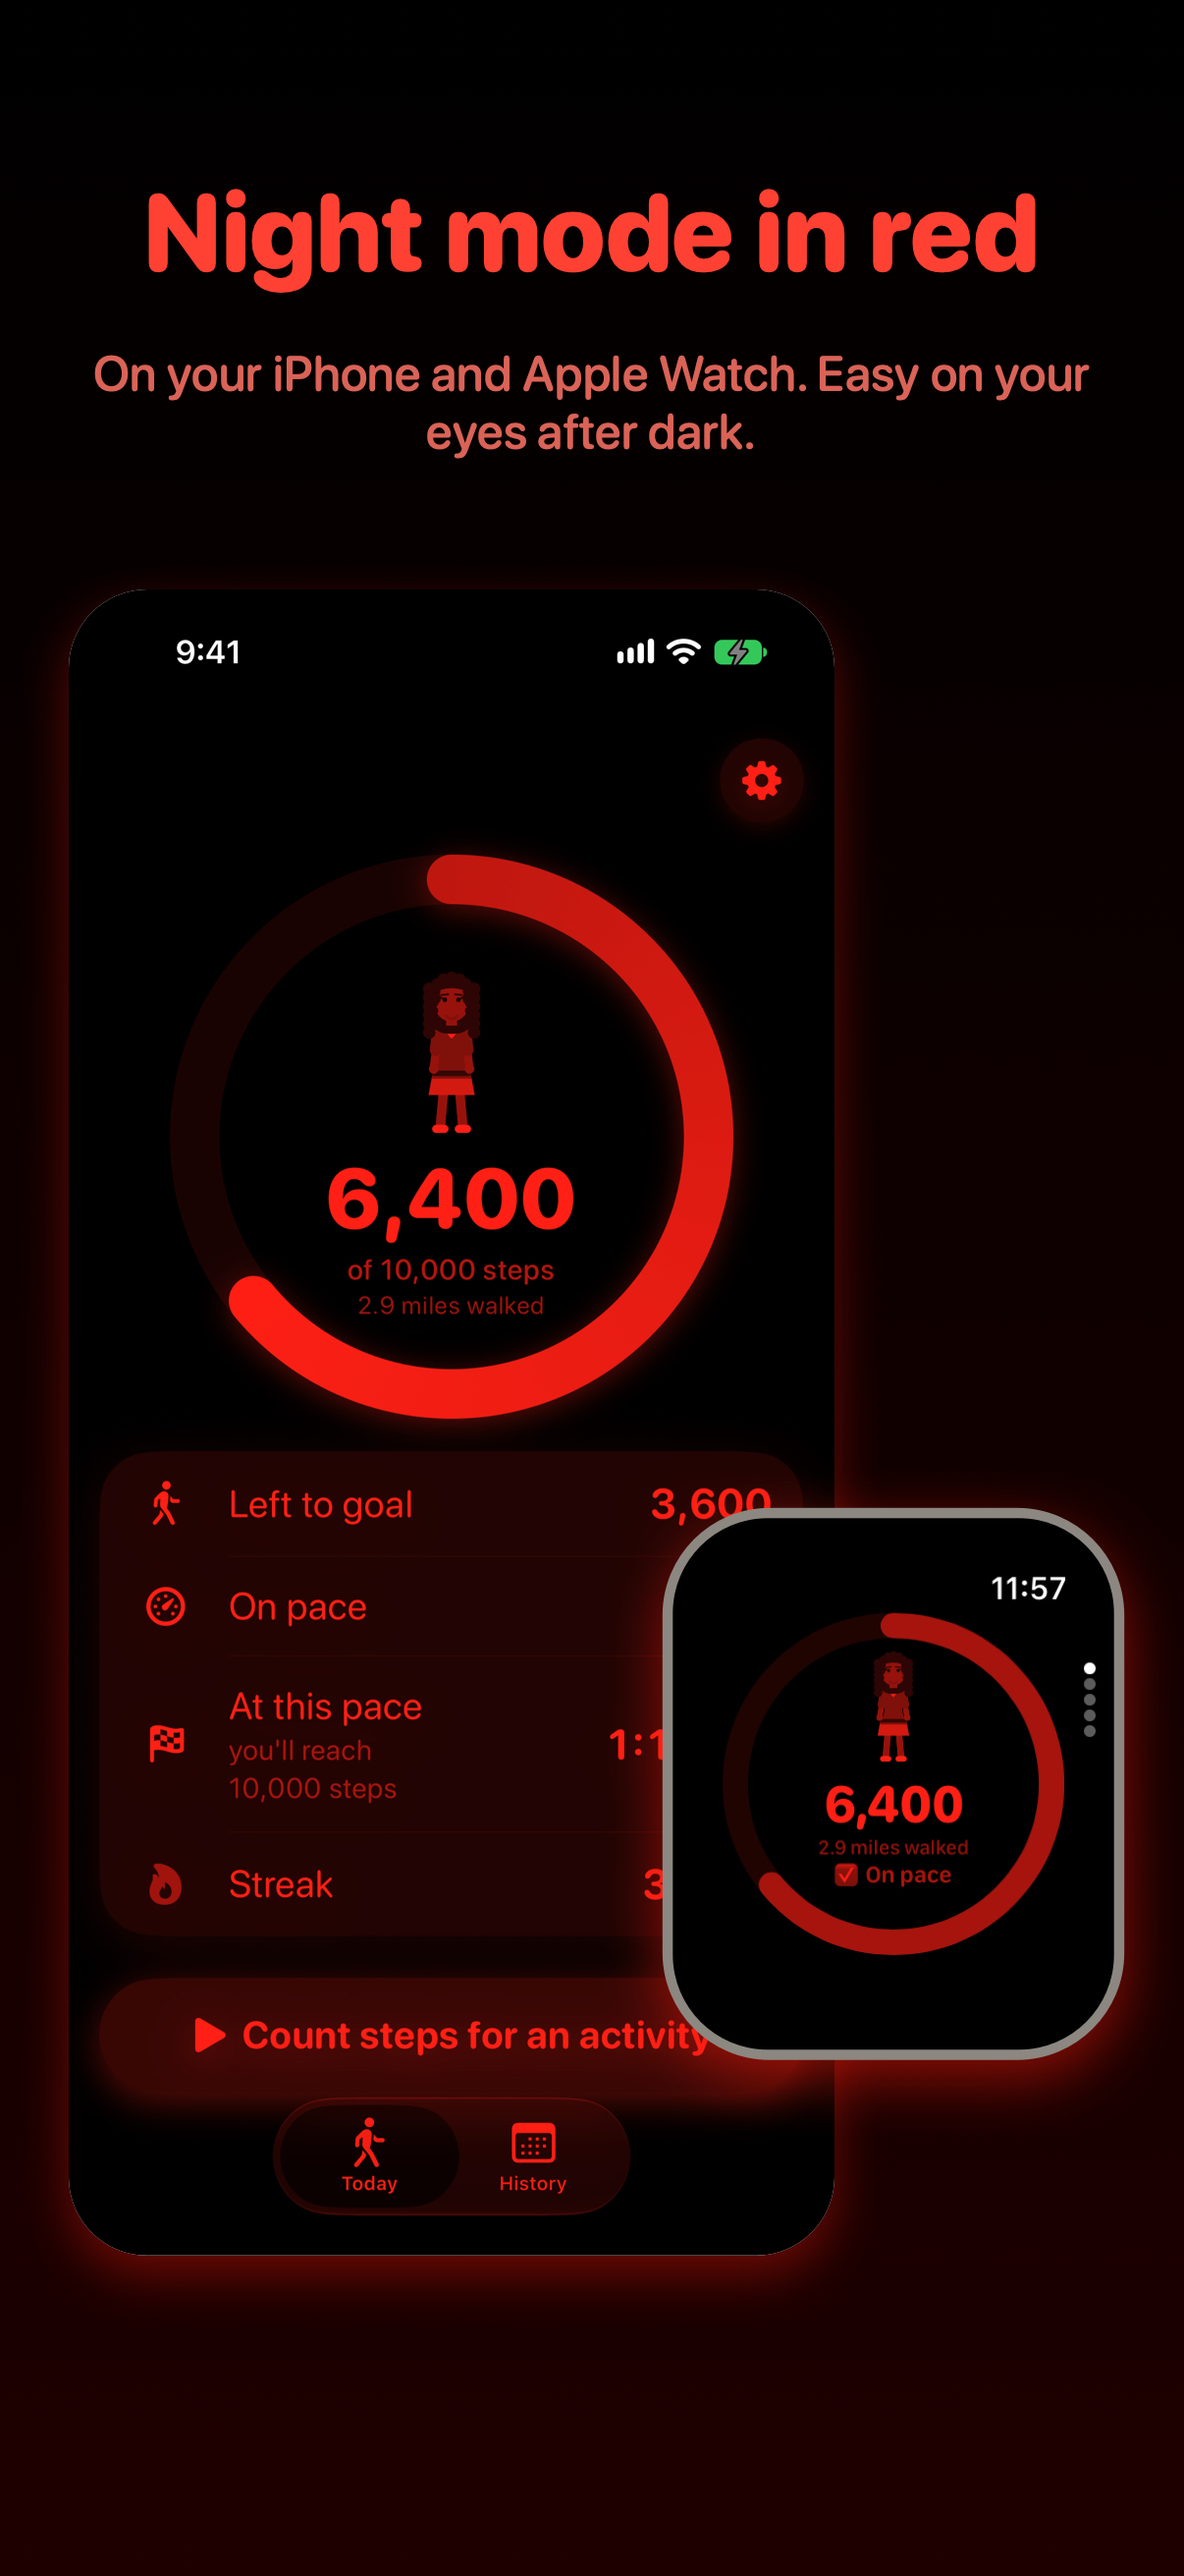
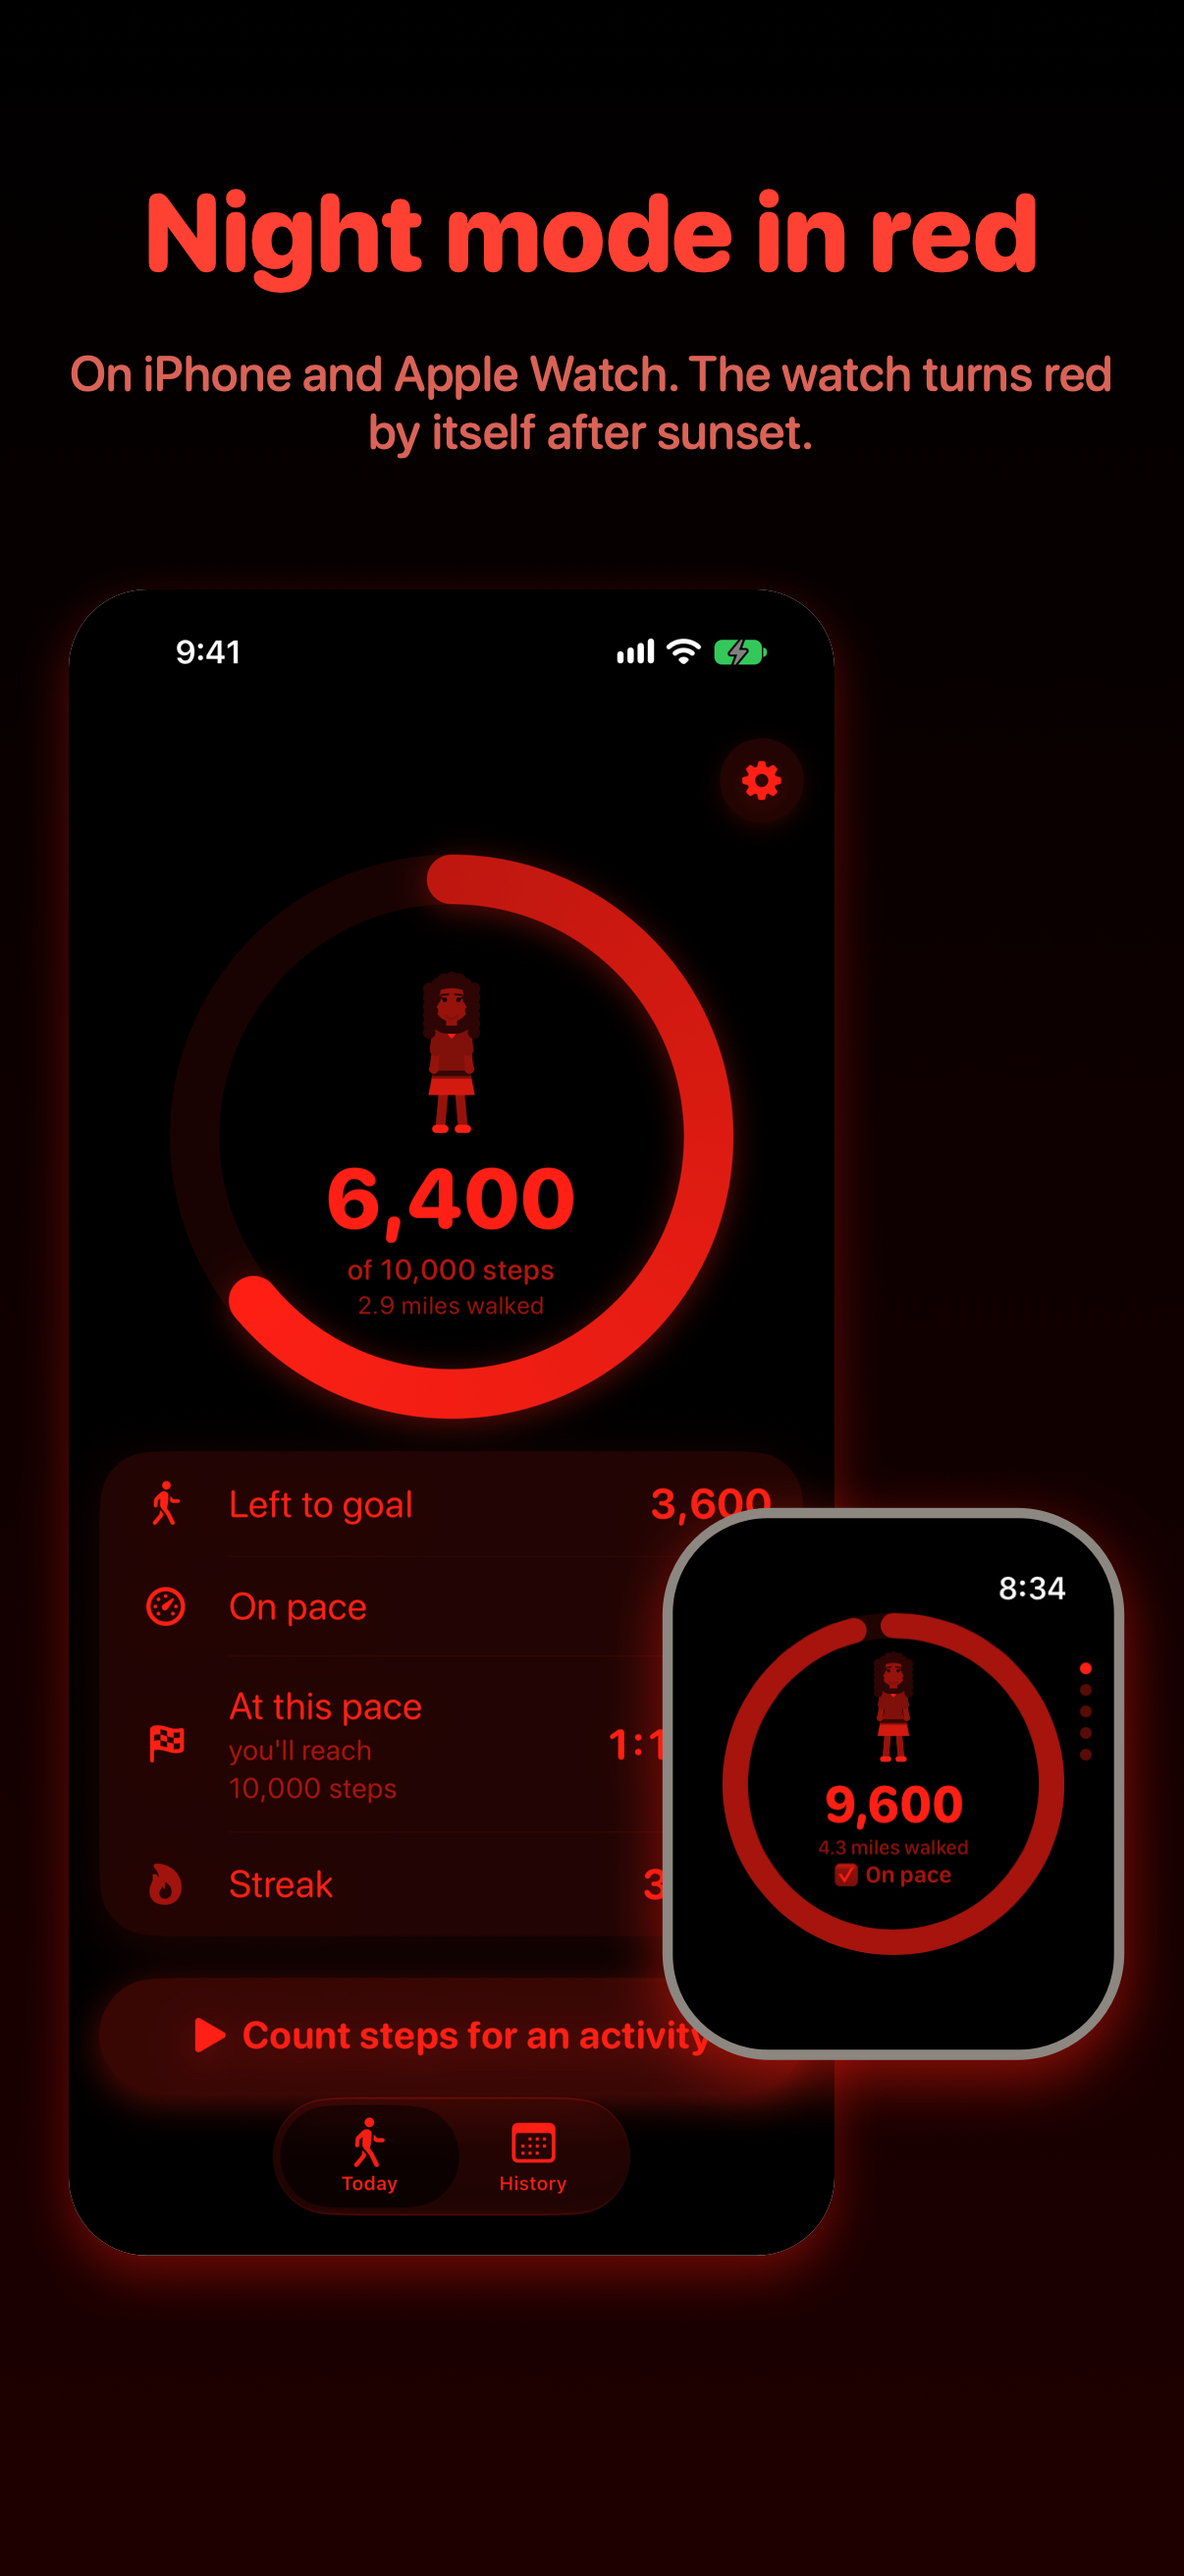
App Store: Night red slide mentions the watch turning red after sunset; new watch night shot with red page dots

diff --git a/AppStore/listing.md b/AppStore/listing.md
@@ -27,7 +27,7 @@ OnPace answers one question at a glance: are you on pace for today's step goal?
 • A mini-me you design (skin tone, hair, outfit, glasses and more) that walks when you walk and celebrates when you hit your goal
 • Workouts you finish on Apple Watch show up with the steps you took during them
 • Count the steps of anything: a hike, a dog walk, shopping, a theme park day
-• Night red: the whole app and watch in red on black, easy on your eyes after dark
+• Night red: the whole app and watch in red on black, easy on your eyes after dark. On Apple Watch it turns on by itself after sunset
 • Three styles (Clean minimal, Cozy pastel, 16-bit adventure) and 8 color sets
 
 APPLE WATCH
